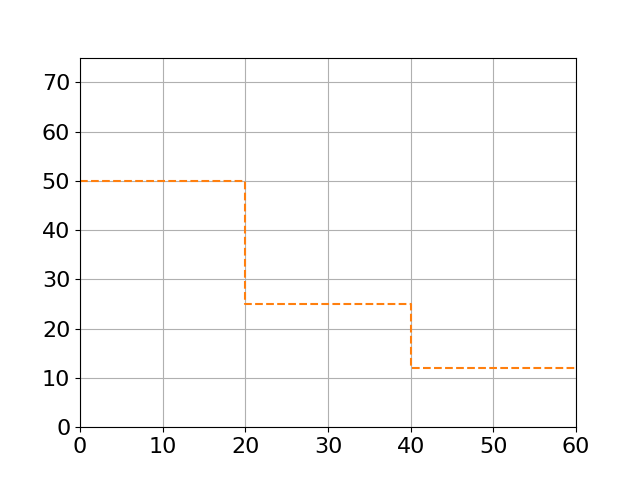
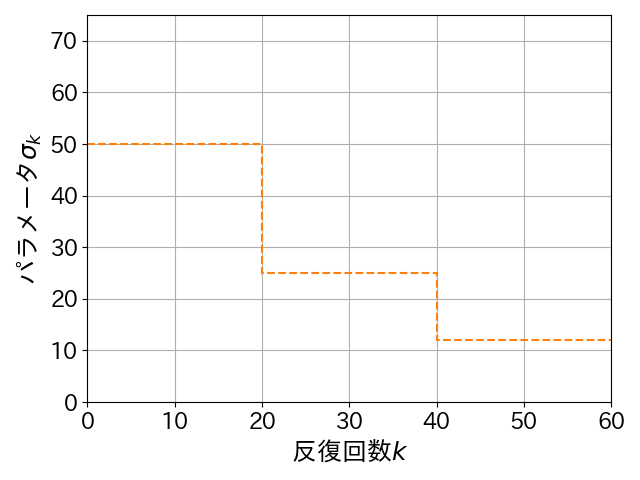
[fix] graph
fix graph

diff --git a/make_graph.py b/make_graph.py
@@ -1,5 +1,6 @@
 import pandas as pd
 import matplotlib.pyplot as plt
+import japanize_matplotlib
 import numpy as np
 import os
 
@@ -241,7 +242,11 @@ plt.xlim([0,60])
 plt.step(x2, y, linestyle = "--", label = '学習初期値', color='#ff7f0e')
 # plt.ylim([-50,300])
 # plt.xlim([-6,6])
+# plt.title("$sigma_k$の初期値")
+plt.xlabel("反復回数$k$", fontsize=18)
+plt.ylabel("パラメータ$\sigma_k$", fontsize=18)
 plt.tick_params(labelsize=16)
+plt.tight_layout()
 curr_gragh_path = "{}.png".format("method1")
 # curr_gragh_path = "{}.png".format("sigmoid255")
 plt.savefig(curr_gragh_path)
